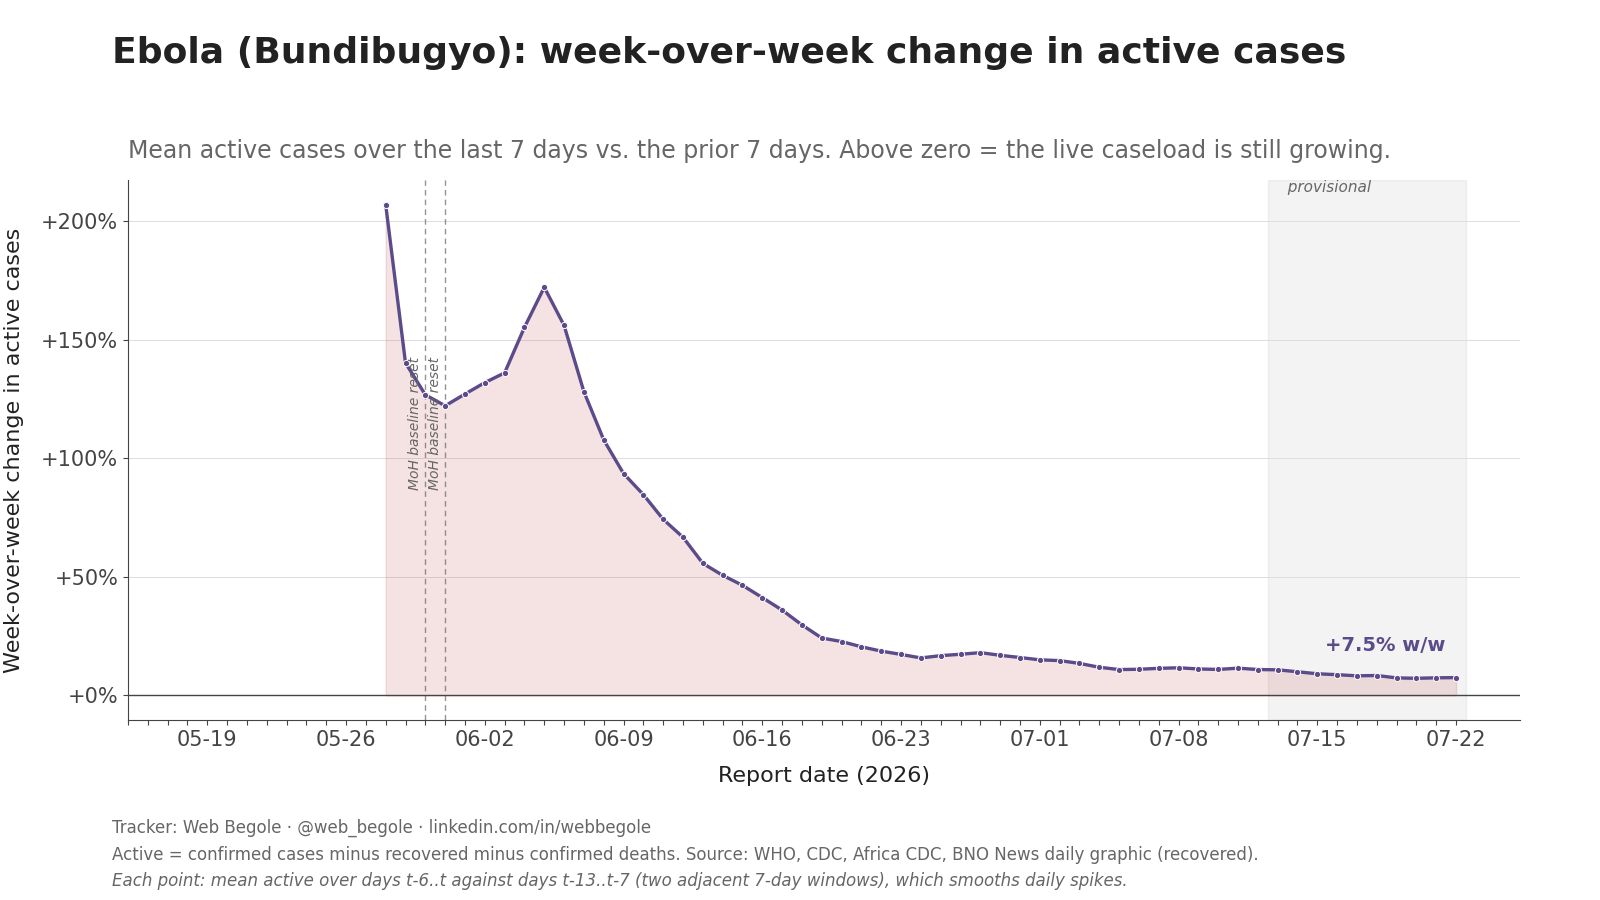
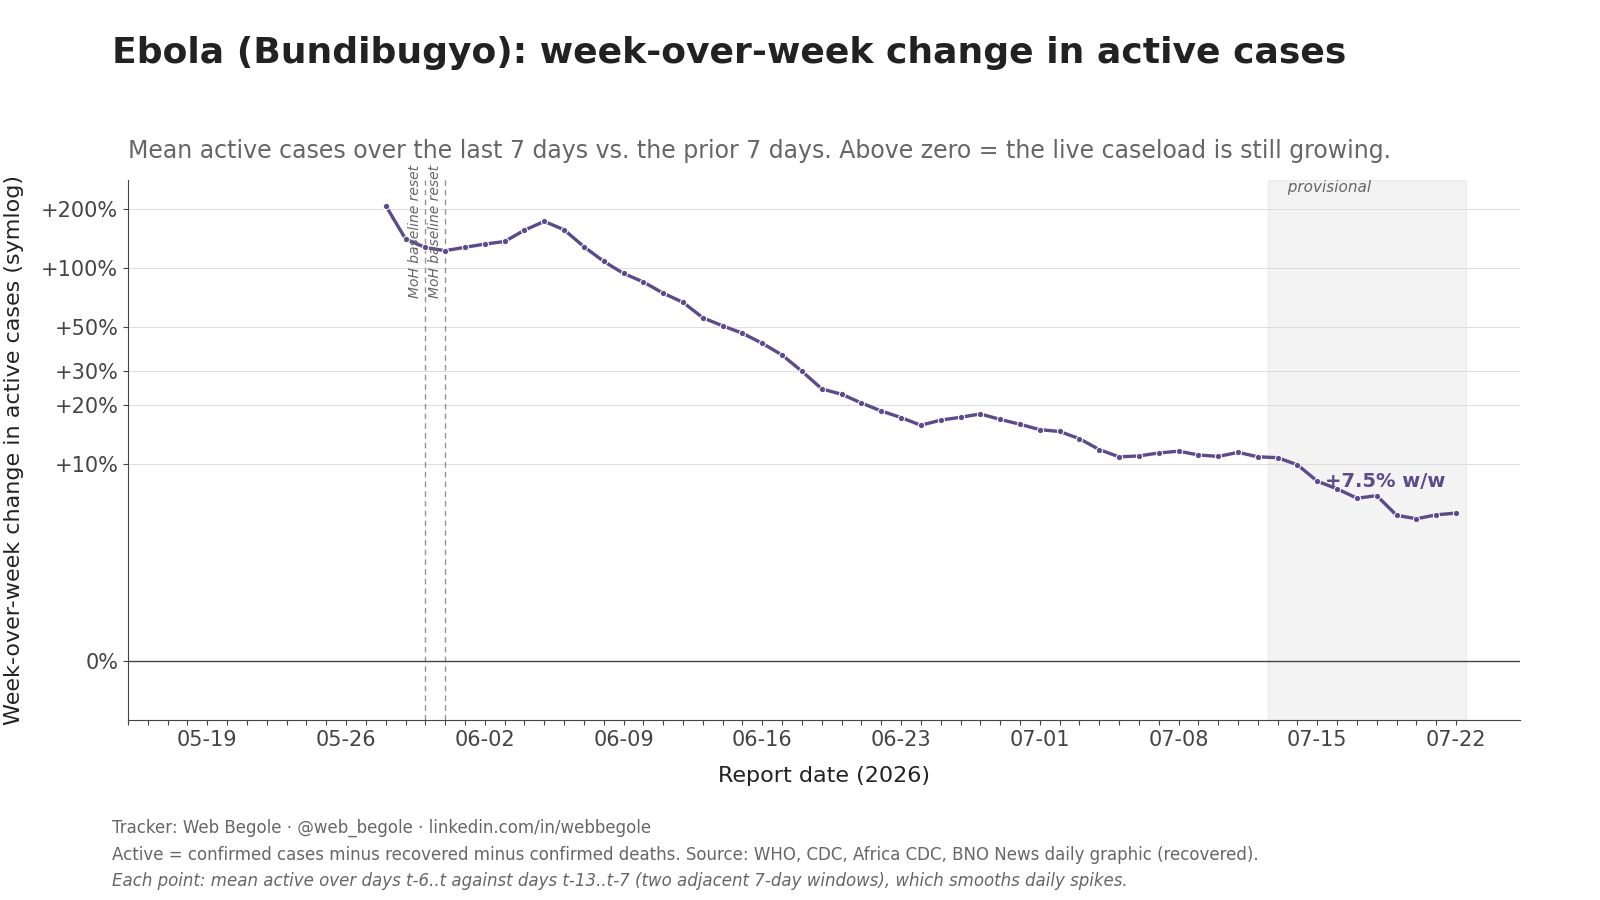
W/W active-cases chart: symlog axis with gridlines at 0/10/20/30/50/100/200%

diff --git a/src/generate_charts.py b/src/generate_charts.py
@@ -803,15 +803,23 @@ def render_active_wow_chart(deltas, out_path: Path):
         plt.close(fig)
         return
 
-    # Shade above/below zero so direction reads at a glance: warm where the
-    # active pool is growing week-over-week, green where it is shrinking.
-    ax.fill_between(pxs, pys, 0, where=[y >= 0 for y in pys],
-                    color=COLOR_CONFIRMED, alpha=0.16, interpolate=True)
-    ax.fill_between(pxs, pys, 0, where=[y <= 0 for y in pys],
-                    color=COLOR_RECOVERED, alpha=0.18, interpolate=True)
     ax.plot(pxs, pys, color=COLOR_ACTIVE, linewidth=2.4, marker="o",
             markersize=4.5, markerfacecolor=COLOR_ACTIVE,
             markeredgecolor="white", markeredgewidth=0.7, zorder=5)
+
+    # Symlog y-axis: the w/w rate runs from +200% down to single digits, so a
+    # linear axis crushes the recent months into the baseline. Symlog keeps the
+    # whole range readable and, unlike a plain log axis, still renders the day
+    # the line crosses below zero (active pool shrinking). Linear within +/-10%.
+    ax.set_yscale("symlog", linthresh=10, linscale=0.9)
+    # Gridlines only at the requested levels: 0, 10, 20, 30, 50, then jump to
+    # 100, then 200 (mirrored on the negative side for when w/w goes negative).
+    ytick_levels = [-200, -100, -50, -30, -20, -10, 0, 10, 20, 30, 50, 100, 200]
+    ax.yaxis.set_major_locator(mticker.FixedLocator(ytick_levels))
+    ax.yaxis.set_minor_locator(mticker.NullLocator())
+    ax.yaxis.set_major_formatter(
+        mticker.FuncFormatter(lambda v, _: "0%" if v == 0 else f"{v:+.0f}%"))
+    ax.set_ylim(min(0, min(pys)) - 3, max(pys) * 1.35)
 
     ax.axhline(0, color=COLOR_AXIS, linewidth=1.0, zorder=4)
 
@@ -840,9 +848,9 @@ def render_active_wow_chart(deltas, out_path: Path):
 
     set_thinned_date_axis(ax, xs, short_dates)
     ax.set_xlabel("Report date (2026)", labelpad=12)
-    ax.set_ylabel("Week-over-week change in active cases", labelpad=12)
-    ax.yaxis.set_major_formatter(mticker.FuncFormatter(lambda x, _: f"{x:+.0f}%"))
+    ax.set_ylabel("Week-over-week change in active cases (symlog)", labelpad=12)
     ax.grid(axis="x", visible=False)
+    ax.grid(axis="y", which="major", color=COLOR_GRID, linewidth=0.7)
 
     fig.suptitle("Ebola (Bundibugyo): week-over-week change in active cases",
                  fontsize=26, fontweight="bold", color=COLOR_TEXT,

diff --git a/METHODOLOGY.md b/METHODOLOGY.md
@@ -150,7 +150,7 @@ Four PNGs are produced on every run, written to `outputs/`:
 1. `YYYY-MM-DD_ebola-cases-7d-rolling-sum.png` — stacked bars of suspected (bottom) and laboratory-confirmed (top) new cases summed over the trailing 7 days. Two cumulative lines on the right axis: cumulative TOTAL cases (bronze) and cumulative LAB-CONFIRMED cases (deep red). The gap between the two lines is the share of the running count still in clinical-suspicion-only status.
 2. `YYYY-MM-DD_ebola-deaths-7d-rolling-sum.png` — bars of suspected deaths summed over the trailing 7 days, with cumulative suspected deaths on the right axis.
 3. `YYYY-MM-DD_ebola-active-cases.png` — active ("live") cases. Daily bars: new confirmed cases drawn upward (inflow), new recoveries and new confirmed deaths drawn downward and stacked (outflow). Right-axis line: cumulative active cases = cumulative confirmed − cumulative recovered − cumulative confirmed deaths. When the downward bars exceed the upward bar on a day, the active line falls (the outbreak is resolving faster than it grows). See "Recovered and active cases" below.
-4. `YYYY-MM-DD_ebola-active-wow.png` — week-over-week percent change in active cases. For each date, the mean active level over the trailing 7 days (t-6..t) is compared to the mean over the immediately prior 7 days (t-13..t-7); the point is `(current_mean / prior_mean − 1) × 100`. Two adjacent 7-day averaging windows smooth the daily spikes so the line reads as a growth-rate trend: above zero the active pool is still expanding week-over-week, below zero it is contracting. Undefined until 14 days of active-case history exist, and skipped on any date where the prior-window mean is non-positive. Implemented as `compute_active_wow` + `render_active_wow_chart` in `src/generate_charts.py`.
+4. `YYYY-MM-DD_ebola-active-wow.png` — week-over-week percent change in active cases. For each date, the mean active level over the trailing 7 days (t-6..t) is compared to the mean over the immediately prior 7 days (t-13..t-7); the point is `(current_mean / prior_mean − 1) × 100`. Two adjacent 7-day averaging windows smooth the daily spikes so the line reads as a growth-rate trend: above zero the active pool is still expanding week-over-week, below zero it is contracting. Undefined until 14 days of active-case history exist, and skipped on any date where the prior-window mean is non-positive. Implemented as `compute_active_wow` + `render_active_wow_chart` in `src/generate_charts.py`. Rendered on a **symlog** y-axis (linear within ±10%, logarithmic beyond) so the line stays readable across the +200%-to-single-digits range and still plots the day the rate crosses below zero (active pool shrinking). Gridlines are fixed at 0, 10, 20, 30, 50, 100, and 200 percent (mirrored negative).
 
 The `YYYY-MM-DD` prefix is the most recent Report Date in `timeseries.csv`.
 

diff --git a/data/notes.md b/data/notes.md
@@ -407,3 +407,4 @@ Methodology decisions, source-conflict resolutions, and revision log. Bullets ar
 - 2026-07-23 (Web-directed, June recovered re-derivation): re-read the full June recovered series against the embedded-date BNO @BNOFeed graphics (date-filtered search windows read via Chrome). Corrections/fills: 06-05 DRC 8 / Uganda 4 / total 12 (was gap); 06-06 total 16->13, DRC 12->9 (the stored 06-06 had been holding the JUNE 7 graphic figures, DRC 12 / total 16 -- an off-by-one-day error); 06-07 DRC 12 / Uganda 4 / total 16 (was gap); 06-21 DRC 100 / Uganda 10 / total 110 (was gap); 06-22 DRC 112 / Uganda 10 / total 122 (Uganda + total filled). Verified unchanged/correct against graphics: 06-04, 06-08 through 06-13, 06-15 through 06-20, 06-23, 06-24. 06-03 has no BNO Recovered column (BNO added it 06-04); 06-03 = 8 is reconstructed from the 06-04 delta.
 - 2026-07-23 (Web-directed, June recovered): 06-14 left BLANK as a BNO anomaly, not filled. The JUNE 14 graphic reported total recovered 61 (DR Congo 56, +21), contradicted the next day by the JUNE 15 graphic at 53 (DR Congo 48). Cumulative recoveries cannot decrease, so the 06-14 over-count is a BNO reporting error; encoding 61 would force a monotonicity break at 06-15 (and fail validate.py). Left blank and forward-filled in the chart, per the no-guess rule. recovered_global remains monotonic with no dips after these edits.
 - 2026-07-23 (Web-directed change): added a fourth chart, week-over-week percent change in active cases. src/generate_charts.py gains compute_active_wow + render_active_wow_chart: for each date, mean active over the trailing 7 days (t-6..t) vs. the prior 7 days (t-13..t-7), plotted as (current_mean/prior_mean - 1)*100. The two adjacent 7-day averaging windows smooth daily spikes so the line reads as a growth-rate trend (above zero = active pool still growing). Undefined until 14 days of active history; skipped where the prior-window mean is non-positive. Outputs YYYY-MM-DD_ebola-active-wow.png + latest-active-wow.png; wired into main() as the fourth published chart and added to index.html. build_xlsx.py Charts sheet gains an "Active w/w % (7-day avg)" column. METHODOLOGY.md Charts section and README updated (four charts now). As of 2026-07-22 the w/w change reads about +7.5%, down from ~+200% in late May: the active caseload is still growing but the growth rate has decelerated sharply.
+- 2026-07-23 (Web-directed refinement): the week-over-week active-cases chart now renders on a symlog y-axis (linthresh=10: linear within +/-10%, logarithmic beyond) instead of linear, so the recent single-digit months are legible alongside the +200% early spike, and it still plots negative values once the active pool starts shrinking. Y gridlines fixed at 0/10/20/30/50/100/200 percent (mirrored negative) per Web; minor ticks off. The zero-crossing fill shading was dropped for a cleaner read. Computation unchanged (mean active t-6..t vs t-13..t-7).